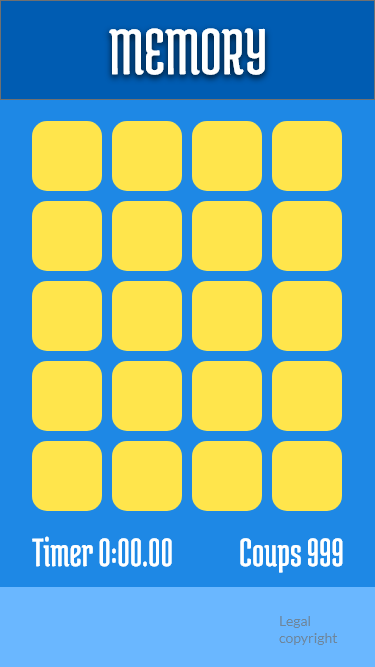
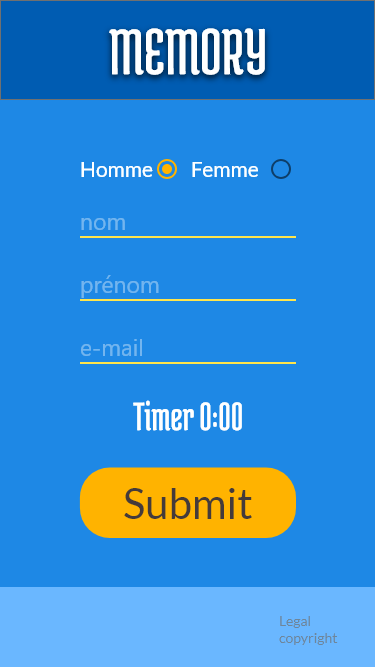
partial responsive

diff --git a/legal.html b/legal.html
@@ -19,19 +19,19 @@
     <main class="mentions">
       <h2>Mentions legales</h2>
 
-<h3>1. Informations légales :<h3>
+<h3>1. Informations légales :</h3>
 
 <p>Formation :<br> Simplon Charleville</p>
 
 <h3>1. Propriété intellectuelle :</h3>
 
-<p>Abelia SAS est propriétaire exclusif de tous les droits de propriété intellectuelle ou détient les droits d’usage sur tous les éléments accessibles sur le site, tant sur la structure que sur les textes, images, graphismes, logo, icônes, sons, logiciels…
-Toute reproduction totale ou partielle du site www.generer-mentions-legales.com, représentation, modification, publication, adaptation totale ou partielle de l'un quelconque de ces éléments, quel que soit le moyen ou le procédé utilisé, est interdite, sauf autorisation écrite préalable de Abelia SAS, propriétaire du site à l'email : contact@generer-mentions-legales.com, à défaut elle sera considérée comme constitutive d’une contrefaçon et passible de poursuite conformément aux dispositions des articles L.335-2 et suivants du Code de Propriété Intellectuelle.</p>
+<p>Simplon08 est propriétaire exclusif de tous les droits de propriété intellectuelle ou détient les droits d’usage sur tous les éléments accessibles sur le site, tant sur la structure que sur les textes, images, graphismes, logo, icônes, sons, logiciels…
+Toute reproduction totale ou partielle du site www.generer-mentions-legales.com, représentation, modification, publication, adaptation totale ou partielle de l'un quelconque de ces éléments, quel que soit le moyen ou le procédé utilisé, est interdite, sauf autorisation écrite préalable de Simplon08, propriétaire du site à l'email : contact@generer-mentions-legales.com, à défaut elle sera considérée comme constitutive d’une contrefaçon et passible de poursuite conformément aux dispositions des articles L.335-2 et suivants du Code de Propriété Intellectuelle.</p>
 
 
 <h3>2. Liens hypertextes et cookies :</h3>
 
-<p>Le site www.generer-mentions-legales.com contient un certain nombre de liens hypertextes vers d’autres sites (partenaires, informations …) mis en place avec l’autorisation de Abelia SAS. Cependant, Abelia SAS n’a pas la possibilité de vérifier l'ensemble du contenu des sites ainsi visités et décline donc toute responsabilité de ce fait quand aux risques éventuels de contenus illicites.
+<p>Le site www.generer-mentions-legales.com contient un certain nombre de liens hypertextes vers d’autres sites (partenaires, informations …) mis en place avec l’autorisation de Simplon08. Cependant, Simplon08 n’a pas la possibilité de vérifier l'ensemble du contenu des sites ainsi visités et décline donc toute responsabilité de ce fait quand aux risques éventuels de contenus illicites.
 L’utilisateur est informé que lors de ses visites sur le site www.generer-mentions-legales.com, un ou des cookies sont susceptibles de s’installer automatiquement sur son ordinateur par l'intermédiaire de son logiciel de navigation. Un cookie est un bloc de données qui ne permet pas d'identifier l'utilisateur, mais qui enregistre des informations relatives à la navigation de celui-ci sur le site.
 Le paramétrage du logiciel de navigation permet d’informer de la présence de cookie et éventuellement, de la refuser de la manière décrite à l’adresse suivante : www.cnil.fr. L’utilisateur peut toutefois configurer le navigateur de son ordinateur pour refuser l’installation des cookies, sachant que le refus d'installation d'un cookie peut entraîner l’impossibilité d’accéder à certains services. Pour tout bloquage des cookies, tapez dans votre moteur de recherche : bloquage des cookies sous IE ou firefox et suivez les instructions en fonction de votre version.</p>
 
@@ -53,6 +53,9 @@ Le site www.generer-mentions-legales.com est déclaré à la CNIL sous le numér
 <p>Les présentes Conditions Générales d'Utilisation et la relation de l'utilisateur avec le site www.generer-mentions-legales.com en vertu de ces Conditions Générales d'Utilisation sont régies par le droit Français. L’utilisateur ainsi que www.generer-mentions-legales.com acceptent de se soumettre à la compétence exclusive des tribunaux Français en cas de litige résultant de ces conditions générales d'utilisation.</p>
 
      </main>
+     <footer>
+       <p><a href="legal.html">Legal</a> <br> Copyright</p>
+     </footer>
 
     <script type="text/javascript" src="jordan/fonction.js"></script>
   </body>

diff --git a/css/style.css b/css/style.css
@@ -12,13 +12,9 @@ ul{
   padding: 0;
 }
 
-h1{
-  color: white;
-  text-shadow: 2px 2px black;
-}
-
 h2{
   margin: 0;
+  padding: 0;
   text-align: center;
   color: black;
 }
@@ -40,20 +36,44 @@ a{
 
 .bouton{
   display: flex;
+  align-items: center;
 }
-span{
+.buttonStart, .submit{
+  width: 150px;
+  margin-top: 10px;
+  background-color: #ffb300;
+  border-radius: 35px;
+  line-height: 85px;
+  color: #333;
+  padding: 0px 32px;
+  text-align: center;
+  text-decoration: none;
+  display: block;
+  cursor: pointer;
+  font-family: 'Lato', sans-serif;
+  margin: auto;
+}
+.buttonStart:hover{
+  border: 3px groove #fff;
+}
+
+.coups{
+  margin-left: 50px;
+}
+
+span{/*
   margin-top: 10px;
   background-color: #ffe54c;
   border-radius: 15px;
   color: black;
-  padding: 15px 32px;
-  text-align: center;
+  padding: 15px 32px;*/
+  text-align: center;/*
   text-decoration: none;
   text-shadow: 1px 1px white;
   display: inline-block;
   font-size: 16px;
   border: 2px ridge #ffe54c;
-  cursor: pointer;
+  cursor: pointer;*/
 }
 span:hover{
   /*mettre un style hover*/
@@ -71,12 +91,13 @@ header{
 
 /* ====================== Body ====================== */
 main{
-  background: linear-gradient(#005cb2,#6ad7ff);
-}
-/*.jeu, .mentions{
+/*  background: linear-gradient(#005cb2,#6ad7ff);*/
       background-color: #1e88e5;
-      j'ai test le dégradé je trouve ca pas mal ca fait epurer
-}*/
+}
+
+
+.jeu, .mentions{
+}
 .regle{
   text-align: center;
   margin: 0;
@@ -86,16 +107,16 @@ main{
   border: 2px solid #ffe54c;
 }
 .jeu{
-  /*  height: calc(100vh - 180px); il faut changer ça*/
-    min-height: 350px;
-    display: flex;
-    justify-content: center;
-    align-items: center;
-    flex-direction: column;
+  height: calc(100vh - 180px);
+  min-height: 350px;
+  display: flex;
+  justify-content: center;
+  align-items: center;
+  flex-direction: column;
 }
 
 .mentions{
-  padding: 0px 20px 20px 20px;
+  padding: 30px 20px 20px 20px;
 }
 
 .deck{
@@ -111,8 +132,8 @@ main{
 
 img{
   border-radius: 15px;
-  width: 130px;
-  height: 130px;
+  width: 55px;
+  height: 55px;
   border: 3px groove #6ad7ff;
   cursor: pointer;
   transition: all 0.2s ease-in;
@@ -135,6 +156,7 @@ footer{
 footer p{
   text-align: left;
   margin-right: 15px;
+  margin-bottom: 0;
 }
 
 /*classe js*/
@@ -146,8 +168,6 @@ border: 3px groove #005cb2;/*j'ai mis un style regarde si sa te vas
 il s'applique qd on retourne les cartes*/
 }
 /*formulaire*/
-@import url('https://fonts.googleapis.com/css?family=Lato|Medula+One');
-
 
 form{
 	justify-content: center;
@@ -163,17 +183,21 @@ input.line{
 }
 
 input::placeholder{
-  color: black;
+  /*color: black;*/
 }
 input{
 	background-color: #ffb300;
-  font-size: 20px;
+  font-size: 23px;
 }
 label{
-  font-size: 20px;
+  font-size: 23px;
   margin-left: 15px;
-  color: black;
+  /*color: black;*/
 }
-#totalTime, #totalCoups{
-  font-size: 20px;
+::placeholder {
+    color: #fff;
+    opacity: 0.8; /* Firefox */
+}
+#totalTime, #totalCoups{/*
+  font-size: 20px;*/
 }

diff --git a/css/fonts.css b/css/fonts.css
@@ -1,16 +1,22 @@
 @import url('https://fonts.googleapis.com/css?family=Lato|Medula+One');
 
-html {font-size: 62.5%;}
+html {
+  font-size: 62.5%;
+  min-width: 320px;
+}
 
 body {
   background-color: white;
   font-family: 'Lato', sans-serif;
   font-weight: 400;
   line-height: 1.45;
-  color: #333;
+  color: #fff;
 }
 
-p {margin-bottom: 1.3rem;}
+p {
+  margin-bottom: 1.3rem;
+  font-size: 1.5rem;
+}
 
 h1, h2, h3, h4 {
   margin: 1.414rem 0 0.5rem;
@@ -22,6 +28,8 @@ h1 {
   font-family: 'Medula One', cursive;
   margin-top: 0;
   font-size: 6.854rem;
+  color: white;
+  text-shadow: 0px 3px 6px rgba(0, 0, 0, 1)
 }
 
 h2 {font-size: 4.236rem;}
@@ -31,3 +39,58 @@ h3 {font-size: 2.618rem;}
 h4 {font-size: 1.618rem;}
 
 small, .font_small {font-size: 0.618rem;}
+
+.coups, .timer{
+  font-size: 23px;
+}
+
+.bouton{
+  font-family: 'Medula One', cursive;
+  font-size: 45px;
+}
+
+/**
+  * fluid typo
+  * font-size: calc(minfsize + (maxfsize - minfsize) * (100vw - minss)/(maxss-minss));
+  */
+
+
+
+@media screen and (min-width: 1024px) {
+  h1{
+    font-size: 138px;
+  }
+  header{
+    height: 150px;
+  }
+
+}
+@media screen and (max-width: 1024px) {
+  h1{
+    font-size: calc(88px + 50 * (100vw - 768px)/256);
+  }
+  header{
+    height: calc(100px + 50 * (100vw - 768px)/256);
+  }
+}
+@media screen and (max-width: 768px) {
+  h1{
+    font-size: 88px;
+  }
+  header{
+    height: 100px;
+  }
+}
+
+@media screen and (min-width: 767px) {
+  .deck{
+    align-items: center;
+    display: grid;
+    grid-template-areas: "card card card card card"
+                         "card card card card card"
+                         "card card card card card"
+                         "card card card card card";
+    grid-gap: 1vw;
+  }
+
+}

diff --git a/index.html b/index.html
@@ -13,17 +13,19 @@
   <body>
 
     <header>
-      <h1><a href="index.html">Memory</a></h1>
+      <h1><a href="index.html">MEMORY</a></h1>
     </header>
 
     <main class="jeu">
       <div class="regle" id="regle">
+        <p><span>Bienvenue.</span> <br> Trouvez les 10 paires correspondantes pour gagner. </p>
+        <!--
         <p>Bienvenue dans le jeu du Memory. Le but est de collecter les paires correspondantes.</br>
         il y a 10 paires au total à trouver. Cliquez sur les images pour retourner les cartes. </br>
         Lorsqu'une paire est trouvées, les cartes restent face visible. le temps est chronométré</br>
         et le nombre de coups également. (un coup equivaut à deux cartes retournées). </br>
          Lorsque toutes les cartes sont face visible, c'est gagné!!!</p>
-        <p>Pour commencer le jeu, appuyez sur le bouton Start!!!</p>
+        <p>Pour commencer le jeu, appuyez sur le bouton Start!!!</p>-->
       </div>
       <div class="contener">
         <form class="cacher" id="formu" name="formcard"  method="post" onsubmit="return validationForm()">
@@ -104,9 +106,10 @@
           <img src="img/dos.png" id="image" />
         </li>
       </ul>
+
       <div class="bouton">
         <div class="timer" id="time">
-          <span onclick="startTimer(),initialiseJeu()">Start!!!</span>
+          <span class="buttonStart" onclick="startTimer(),initialiseJeu()">Start</span>
         </div>
         <div class="comptage cacher" id="compteur">
           <span class="coups">0 Coups.</span>

diff --git a/js/fonction.js b/js/fonction.js
@@ -15,7 +15,7 @@ function startTimer(){
   regle.classList.toggle('cacher');//cache les règles
   compteur.classList.toggle('cacher');//rend visible le compteur
     interval = setInterval(function(){
-        timer.innerHTML = minute+": "+seconde +": " + milli;
+        timer.innerHTML = "Timer " + minute+":"+seconde +"." + milli;
         milli++;
         if(milli >99){//si les milli depasse 99
             seconde++;//on incremente les secondes de 1
@@ -59,7 +59,7 @@ var counter = document.querySelector(".coups");
 //fonction qui permet de compter le nbr de cliques
 function nbrCoups(){
     coups++;
-    counter.innerHTML = coups + " Coups.";
+    counter.innerHTML ="Coups : " + coups;
   }
 //on parcourt le tableau d'objet des éléments img et on ajoute la fonction controleJeu
 //en cliquant sur la chaque carte.
